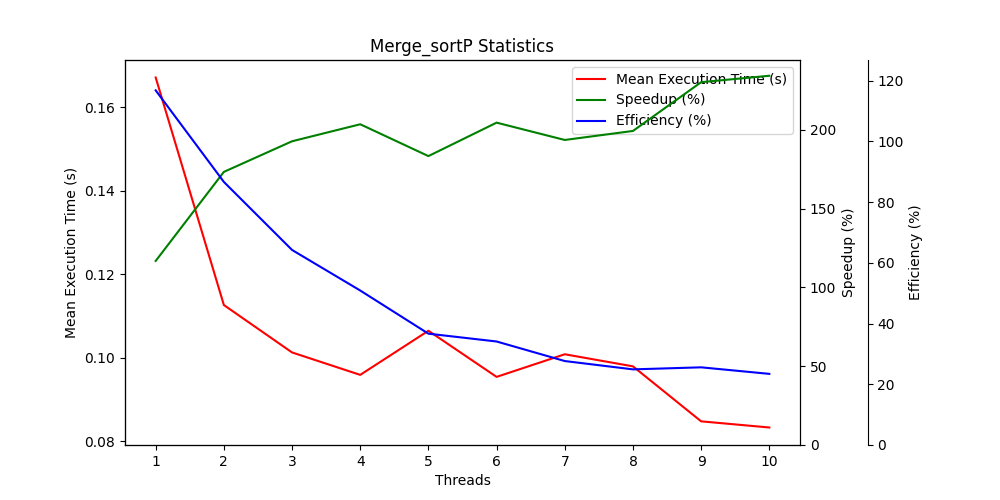
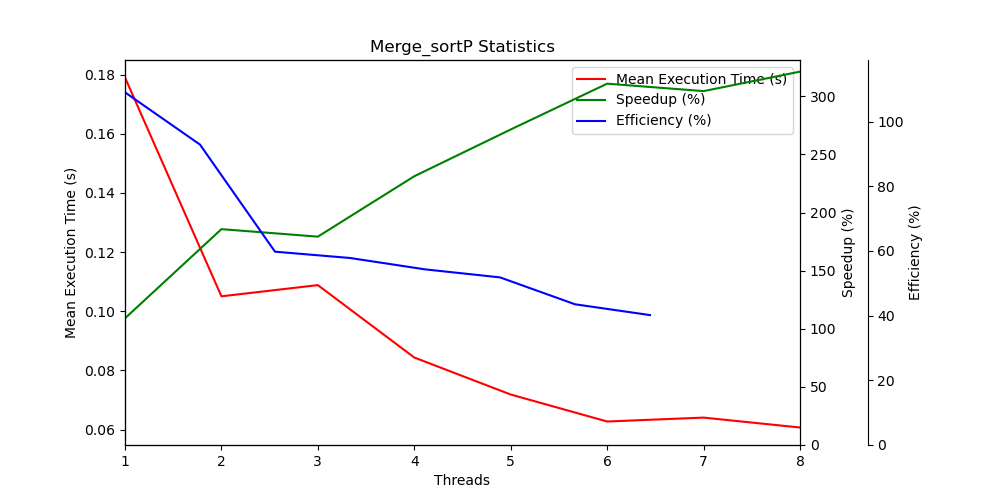
updated script

diff --git a/labs/2/tasks/collect_data.py b/labs/2/tasks/collect_data.py
@@ -33,6 +33,8 @@ def plot_multi(data, cols=None, spacing=.1, **kwargs):
         ax_new.spines['right'].set_position(('axes', 1 + spacing * (n - 1)))
         data.loc[:, cols[n]].plot(ax=ax_new, label=cols[n], color=colors[n % len(colors)], **kwargs)
         ax_new.set_ylabel(ylabel=cols[n])
+        print(cols[n], 'max', data[cols[n]].max())
+        print(cols[n], 'data', data[cols[n]])
         ax_new.set_ylim([0, data.loc[:, cols[n]].max() + 10])
 
         # Proper legend position
@@ -80,7 +82,7 @@ for i, datum in enumerate(mean_times):
 
 print("Eff", efficiency_list)
 print("Speedup", speedup_list)
-
+#print("Eff * 100", [datum[1] * 100 for datum in efficiency_list])
 data = pd.DataFrame({
     "Mean Execution Time (s)": [datum[1] for datum in mean_times],
     "Speedup (%)": [datum[1] for datum in speedup_list],

diff --git a/labs/2/tasks/collect_seq_data.py b/labs/2/tasks/collect_seq_data.py
@@ -9,7 +9,7 @@ import matplotlib.pyplot as plt
 import numpy as np
 
 program_name = './Merge_sort_SEQ'
-arguments = '1000'
+arguments = ''
 time_token = 'time ='
 
 mean_times = [] # [[threads, mean], ...]
